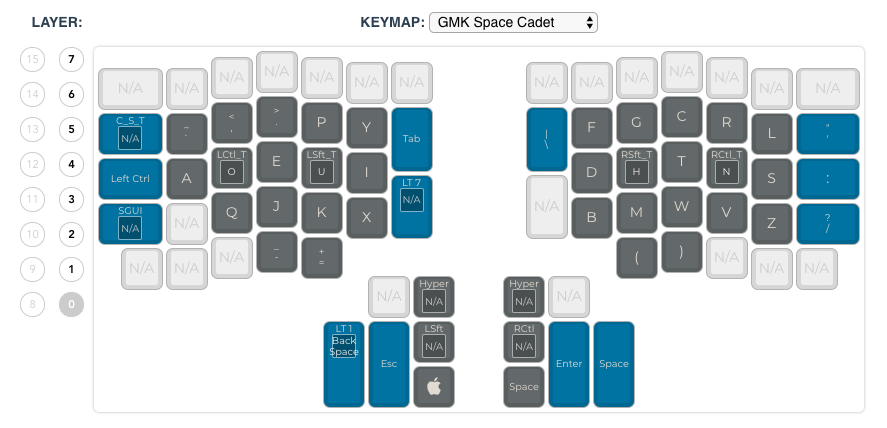
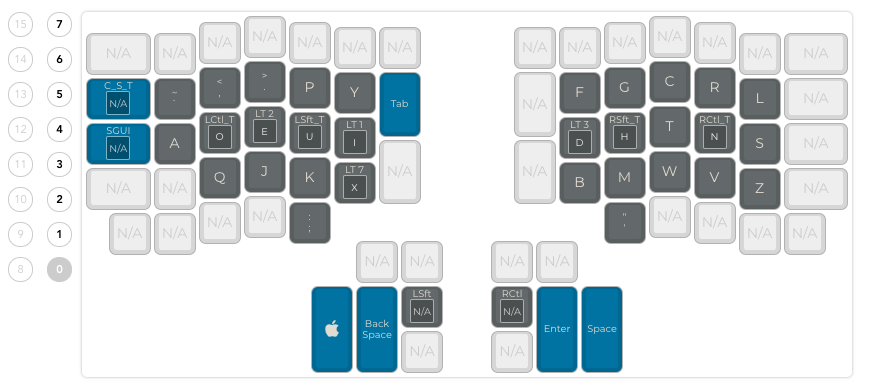
Update layouts.

diff --git a/keymap.c b/keymap.c
@@ -1,10 +1,10 @@
 #include QMK_KEYBOARD_H
 
 const uint16_t PROGMEM keymaps[][MATRIX_ROWS][MATRIX_COLS] = {
-	[0] = LAYOUT_ergodox(KC_NO, KC_NO, KC_NO, KC_NO, KC_NO, KC_NO, KC_NO, C_S_T(KC_NO), KC_GRV, KC_COMM, KC_DOT, KC_P, KC_Y, KC_TAB, KC_LCTL, KC_A, LCTL_T(KC_O), KC_E, LSFT_T(KC_U), KC_I, SGUI(KC_NO), KC_NO, KC_Q, KC_J, KC_K, KC_X, LT(7,KC_NO), KC_NO, KC_NO, KC_NO, KC_MINS, KC_EQL, KC_NO, HYPR(KC_NO), LSFT(KC_NO), LT(1,KC_BSPC), KC_ESC, KC_LGUI, KC_NO, KC_NO, KC_NO, KC_NO, KC_NO, KC_NO, KC_NO, KC_BSLS, KC_F, KC_G, KC_C, KC_R, KC_L, KC_QUOT, KC_D, RSFT_T(KC_H), KC_T, RCTL_T(KC_N), KC_S, KC_COLN, KC_NO, KC_B, KC_M, KC_W, KC_V, KC_Z, KC_SLSH, KC_LPRN, KC_RPRN, KC_NO, KC_NO, KC_NO, HYPR(KC_NO), KC_NO, RCTL(KC_NO), KC_SPC, KC_ENT, KC_SPC),
-	[1] = LAYOUT_ergodox(KC_NO, KC_NO, KC_NO, KC_NO, KC_NO, KC_NO, KC_NO, KC_TRNS, KC_TILD, KC_LBRC, KC_RBRC, KC_QUES, KC_NO, KC_NO, KC_TRNS, KC_EXLM, KC_AT, KC_HASH, KC_DLR, KC_PERC, KC_TRNS, KC_CIRC, KC_AMPR, KC_ASTR, KC_LCBR, KC_RCBR, KC_NO, KC_NO, KC_NO, KC_NO, KC_NO, KC_NO, KC_NO, KC_NO, KC_NO, KC_NO, KC_NO, KC_NO, KC_NO, KC_NO, KC_NO, KC_NO, KC_NO, KC_NO, KC_NO, KC_NO, KC_PPLS, KC_7, KC_8, KC_9, KC_NO, KC_DQUO, KC_PEQL, KC_4, KC_5, KC_6, KC_NO, KC_SCLN, KC_NO, KC_PMNS, KC_1, KC_2, KC_3, KC_NO, KC_QUES, KC_UNDS, KC_0, KC_PDOT, KC_NO, KC_NO, KC_TRNS, KC_NO, KC_TRNS, KC_NO, LT(3,KC_ENT), KC_RSFT),
-	[2] = LAYOUT_ergodox(KC_NO, KC_NO, KC_NO, KC_NO, KC_NO, KC_NO, KC_NO, KC_NO, KC_TRNS, KC_NO, KC_NO, KC_NO, KC_NO, KC_NO, KC_NO, KC_NO, KC_NO, KC_NO, KC_NO, KC_NO, KC_NO, KC_NO, KC_NO, KC_NO, KC_NO, KC_NO, KC_NO, KC_NO, KC_NO, KC_NO, KC_NO, KC_NO, KC_NO, KC_NO, KC_NO, KC_NO, KC_NO, KC_NO, KC_NO, KC_NO, KC_NO, KC_NO, KC_NO, KC_NO, KC_NO, KC_NO, KC_NO, KC_NO, KC_NO, KC_NO, KC_NO, KC_NO, KC_NO, KC_NO, KC_NO, KC_NO, KC_NO, KC_NO, KC_NO, KC_NO, KC_NO, KC_NO, KC_NO, KC_NO, KC_NO, KC_NO, KC_NO, KC_NO, KC_NO, KC_NO, KC_NO, KC_NO, KC_NO, KC_NO, KC_NO, KC_NO),
-	[3] = LAYOUT_ergodox(KC_NO, KC_NO, KC_NO, KC_NO, KC_NO, KC_NO, KC_NO, KC_NO, KC_TRNS, KC_NO, KC_NO, KC_NO, KC_NO, KC_NO, KC_NO, KC_NO, KC_NO, KC_NO, KC_NO, KC_NO, KC_NO, KC_NO, KC_NO, KC_NO, KC_NO, KC_NO, KC_NO, KC_NO, KC_NO, KC_NO, KC_NO, KC_NO, KC_NO, KC_NO, KC_NO, KC_NO, KC_NO, KC_NO, KC_NO, KC_NO, KC_NO, KC_NO, KC_NO, KC_NO, KC_NO, KC_NO, KC_NO, KC_NO, KC_NO, KC_NO, KC_NO, KC_NO, KC_NO, KC_NO, KC_NO, KC_NO, KC_NO, KC_NO, KC_NO, KC_NO, KC_NO, KC_NO, KC_NO, KC_NO, KC_NO, KC_NO, KC_NO, KC_NO, KC_NO, KC_NO, KC_NO, KC_NO, KC_NO, KC_NO, KC_NO, KC_NO),
+	[0] = LAYOUT_ergodox(KC_NO, KC_NO, KC_NO, KC_NO, KC_NO, KC_NO, KC_NO, C_S_T(KC_NO), KC_GRV, KC_COMM, KC_DOT, KC_P, KC_Y, KC_TAB, SGUI(KC_NO), KC_A, LCTL_T(KC_O), LT(2,KC_E), LSFT_T(KC_U), LT(1,KC_I), KC_NO, KC_NO, KC_Q, KC_J, KC_K, LT(7,KC_X), KC_NO, KC_NO, KC_NO, KC_NO, KC_NO, KC_SCLN, KC_NO, KC_NO, LSFT(KC_NO), KC_LGUI, KC_BSPC, KC_NO, KC_NO, KC_NO, KC_NO, KC_NO, KC_NO, KC_NO, KC_NO, KC_NO, KC_F, KC_G, KC_C, KC_R, KC_L, KC_NO, LT(3,KC_D), RSFT_T(KC_H), KC_T, RCTL_T(KC_N), KC_S, KC_NO, KC_NO, KC_B, KC_M, KC_W, KC_V, KC_Z, KC_NO, KC_QUOT, KC_NO, KC_NO, KC_NO, KC_NO, KC_NO, KC_NO, RCTL(KC_NO), KC_NO, KC_ENT, KC_SPC),
+	[1] = LAYOUT_ergodox(KC_NO, KC_NO, KC_NO, KC_NO, KC_NO, KC_NO, KC_NO, KC_TRNS, KC_NO, KC_NO, KC_NO, KC_NO, KC_NO, KC_NO, KC_TRNS, KC_NO, KC_TRNS, KC_TRNS, KC_TRNS, KC_TRNS, KC_NO, KC_NO, KC_NO, KC_NO, KC_NO, KC_TRNS, KC_NO, KC_NO, KC_NO, KC_NO, KC_NO, KC_NO, KC_NO, KC_NO, KC_TRNS, KC_TRNS, KC_TRNS, KC_NO, KC_NO, KC_NO, KC_NO, KC_NO, KC_NO, KC_NO, KC_NO, KC_NO, KC_PPLS, KC_7, KC_8, KC_9, KC_NO, KC_NO, KC_PEQL, KC_4, KC_5, KC_6, KC_NO, KC_NO, KC_NO, KC_PMNS, KC_1, KC_2, KC_3, KC_NO, KC_NO, KC_BSLS, KC_0, KC_PDOT, KC_NO, KC_NO, KC_NO, KC_NO, KC_TRNS, KC_NO, KC_TRNS, KC_TRNS),
+	[2] = LAYOUT_ergodox(KC_NO, KC_NO, KC_NO, KC_NO, KC_NO, KC_NO, KC_NO, KC_TRNS, KC_NO, KC_NO, KC_NO, KC_NO, KC_NO, KC_NO, KC_TRNS, KC_NO, KC_TRNS, KC_TRNS, KC_TRNS, KC_TRNS, KC_NO, KC_NO, KC_NO, KC_NO, KC_NO, KC_TRNS, KC_NO, KC_NO, KC_NO, KC_NO, KC_NO, KC_NO, KC_NO, KC_NO, KC_TRNS, KC_TRNS, KC_TRNS, KC_NO, KC_NO, KC_NO, KC_NO, KC_NO, KC_NO, KC_NO, KC_NO, KC_NO, KC_ESC, KC_COLN, KC_MINS, KC_SLSH, KC_NO, KC_NO, KC_BSPC, KC_LPRN, KC_SPC, KC_RPRN, KC_NO, KC_NO, KC_NO, KC_ENT, KC_LBRC, KC_EQL, KC_RBRC, KC_NO, KC_NO, KC_DQUO, KC_NO, KC_NO, KC_NO, KC_NO, KC_NO, KC_NO, KC_TRNS, KC_NO, KC_TRNS, KC_TRNS),
+	[3] = LAYOUT_ergodox(KC_NO, KC_NO, KC_NO, KC_NO, KC_NO, KC_NO, KC_NO, KC_TRNS, KC_CIRC, KC_AMPR, KC_ASTR, KC_UNDS, KC_PIPE, KC_NO, KC_TRNS, KC_EXLM, KC_AT, KC_HASH, KC_DLR, KC_PERC, KC_NO, KC_NO, KC_NO, KC_NO, KC_LCBR, KC_RCBR, KC_NO, KC_NO, KC_NO, KC_NO, KC_NO, KC_NO, KC_NO, KC_NO, KC_TRNS, KC_TRNS, KC_TRNS, KC_NO, KC_NO, KC_NO, KC_NO, KC_NO, KC_NO, KC_NO, KC_NO, KC_NO, KC_NO, KC_NO, KC_NO, KC_NO, KC_NO, KC_NO, KC_NO, KC_TRNS, KC_NO, KC_TRNS, KC_NO, KC_NO, KC_NO, KC_NO, KC_NO, KC_NO, KC_NO, KC_NO, KC_NO, KC_NO, KC_NO, KC_NO, KC_NO, KC_NO, KC_NO, KC_NO, KC_TRNS, KC_NO, KC_TRNS, KC_TRNS),
 	[4] = LAYOUT_ergodox(KC_NO, KC_NO, KC_NO, KC_NO, KC_NO, KC_NO, KC_NO, KC_NO, KC_TRNS, KC_NO, KC_NO, KC_NO, KC_NO, KC_NO, KC_NO, KC_NO, KC_NO, KC_NO, KC_NO, KC_NO, KC_NO, KC_NO, KC_NO, KC_NO, KC_NO, KC_NO, KC_NO, KC_NO, KC_NO, KC_NO, KC_NO, KC_NO, KC_NO, KC_NO, KC_NO, KC_NO, KC_NO, KC_NO, KC_NO, KC_NO, KC_NO, KC_NO, KC_NO, KC_NO, KC_NO, KC_NO, KC_NO, KC_NO, KC_NO, KC_NO, KC_NO, KC_NO, KC_NO, KC_NO, KC_NO, KC_NO, KC_NO, KC_NO, KC_NO, KC_NO, KC_NO, KC_NO, KC_NO, KC_NO, KC_NO, KC_NO, KC_NO, KC_NO, KC_NO, KC_NO, KC_NO, KC_NO, KC_NO, KC_NO, KC_NO, KC_NO),
 	[5] = LAYOUT_ergodox(KC_NO, KC_NO, KC_NO, KC_NO, KC_NO, KC_NO, KC_NO, KC_NO, KC_TRNS, KC_NO, KC_NO, KC_NO, KC_NO, KC_NO, KC_NO, KC_NO, KC_NO, KC_NO, KC_NO, KC_NO, KC_NO, KC_NO, KC_NO, KC_NO, KC_NO, KC_NO, KC_NO, KC_NO, KC_NO, KC_NO, KC_NO, KC_NO, KC_NO, KC_NO, KC_NO, KC_NO, KC_NO, KC_NO, KC_NO, KC_NO, KC_NO, KC_NO, KC_NO, KC_NO, KC_NO, KC_NO, KC_NO, KC_NO, KC_NO, KC_NO, KC_NO, KC_NO, KC_NO, KC_NO, KC_NO, KC_NO, KC_NO, KC_NO, KC_NO, KC_NO, KC_NO, KC_NO, KC_NO, KC_NO, KC_NO, KC_NO, KC_NO, KC_NO, KC_NO, KC_NO, KC_NO, KC_NO, KC_NO, KC_NO, KC_NO, KC_NO),
 	[6] = LAYOUT_ergodox(KC_NO, KC_NO, KC_NO, KC_NO, KC_NO, KC_NO, KC_NO, KC_NO, KC_TRNS, KC_NO, KC_NO, KC_NO, KC_NO, KC_NO, KC_NO, KC_NO, KC_NO, KC_NO, KC_NO, KC_NO, KC_NO, KC_NO, KC_NO, KC_NO, KC_NO, KC_NO, KC_NO, KC_NO, KC_NO, KC_NO, KC_NO, KC_NO, KC_NO, KC_NO, KC_NO, KC_NO, KC_NO, KC_NO, KC_NO, KC_NO, KC_NO, KC_NO, KC_NO, KC_NO, KC_NO, KC_NO, KC_NO, KC_NO, KC_NO, KC_NO, KC_NO, KC_NO, KC_NO, KC_NO, KC_NO, KC_NO, KC_NO, KC_NO, KC_NO, KC_NO, KC_NO, KC_NO, KC_NO, KC_NO, KC_NO, KC_NO, KC_NO, KC_NO, KC_NO, KC_NO, KC_NO, KC_NO, KC_NO, KC_NO, KC_NO, KC_NO),

diff --git a/readme.md b/readme.md
@@ -25,3 +25,7 @@ More information can be found in the QMK docs: <https://docs.qmk.fm>
  Layer 2
 
  ![Layer 2](https://github.com/luotaoruby/ergodox_qmk_layouts/blob/master/imgs/layer2.png)
+
+ Layer 3
+
+ ![Layer 3](https://github.com/luotaoruby/ergodox_qmk_layouts/blob/master/imgs/layer3.png)
